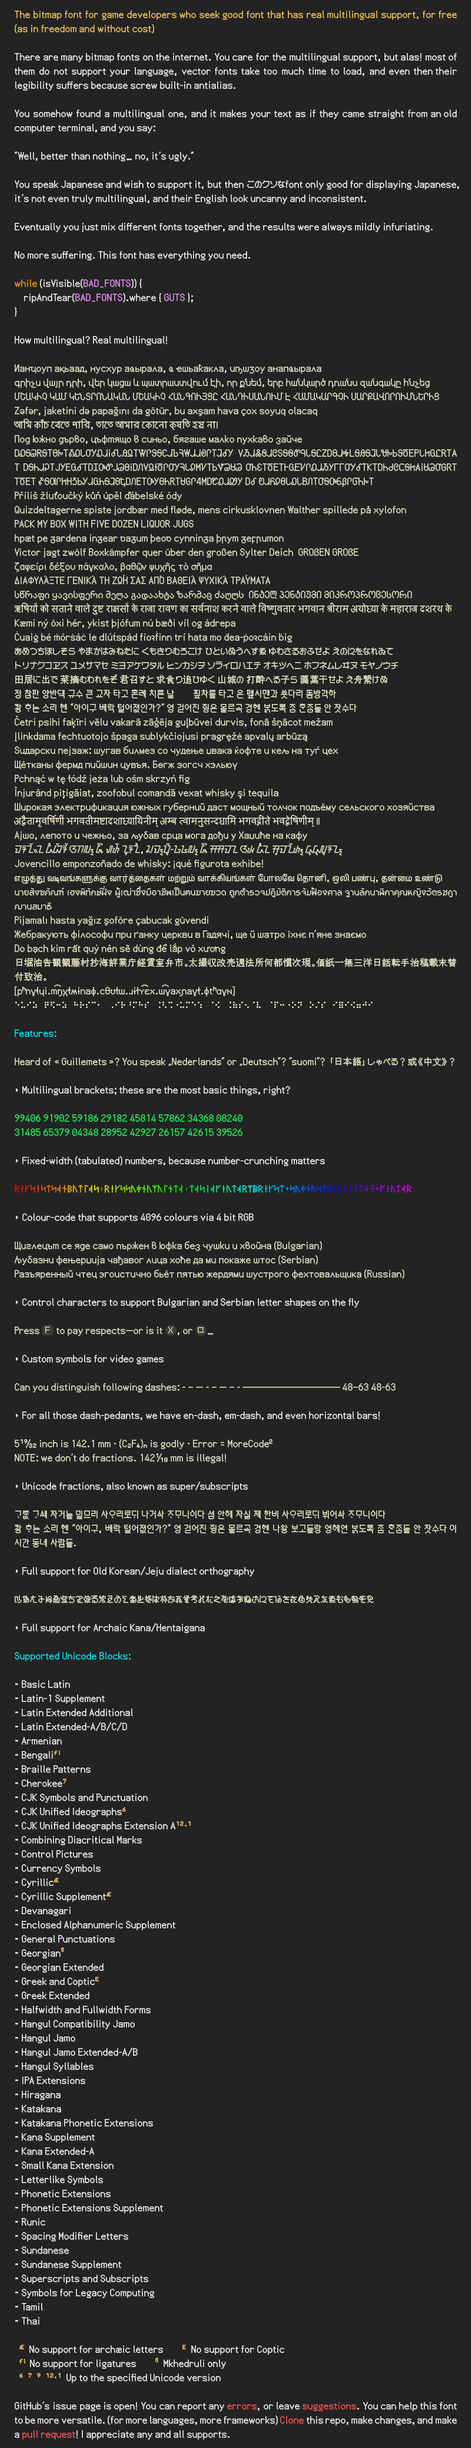
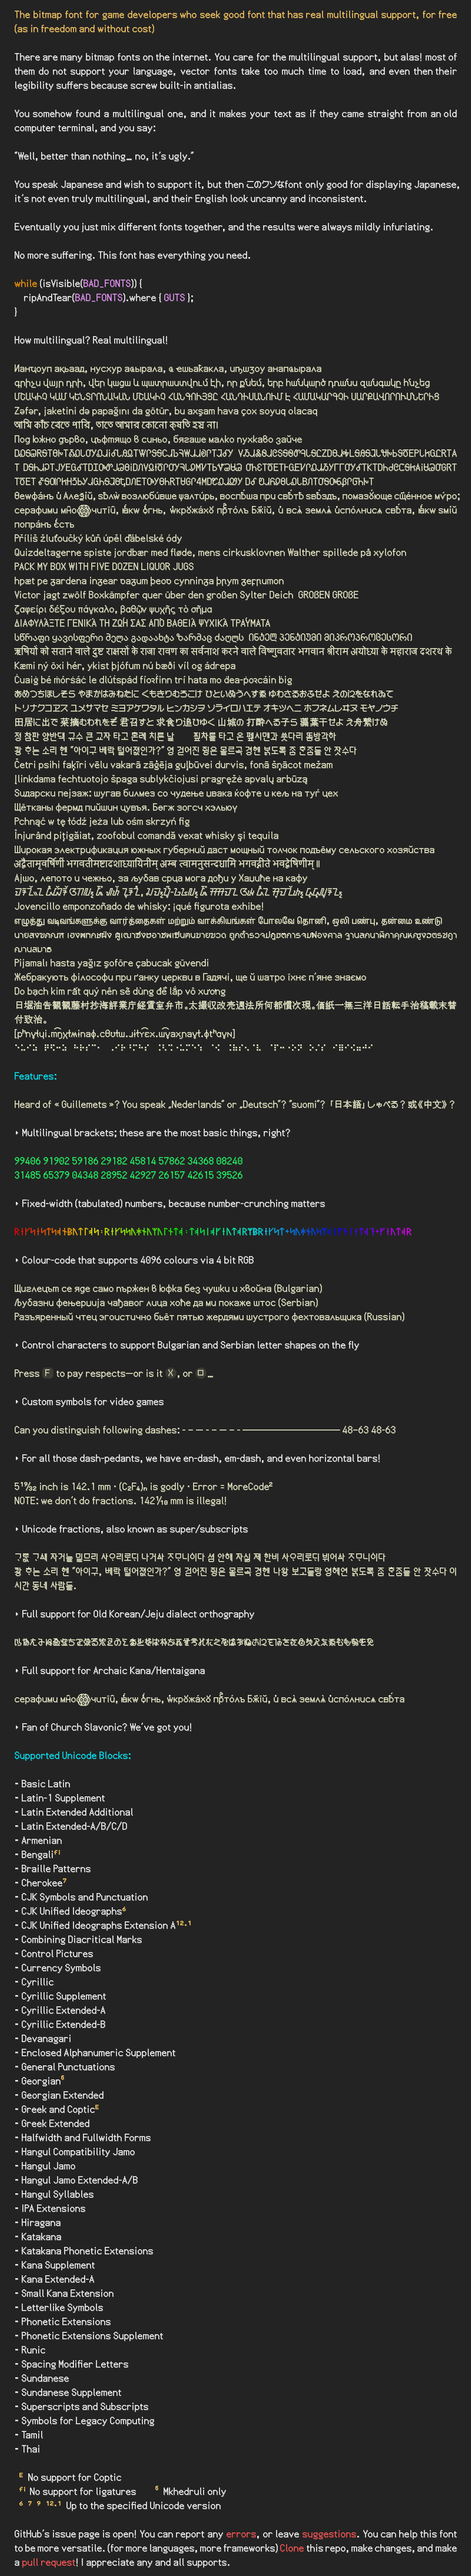
Full Cyrillic, CyrlExtA/B support (enables church slavonic)

diff --git a/src/net/torvald/terrarumsansbitmap/gdx/TerrarumSansBitmap.kt b/src/net/torvald/terrarumsansbitmap/gdx/TerrarumSansBitmap.kt
@@ -888,6 +888,8 @@ class TerrarumSansBitmap(
             SHEET_HENTAIGANA_VARW -> hentaiganaIndexY(ch)
             SHEET_CONTROL_PICTURES_VARW -> controlPicturesIndexY(ch)
             SHEET_LEGACY_COMPUTING_VARW -> legacyComputingIndexY(ch)
+            SHEET_CYRILIC_EXTB_VARW -> cyrilicExtBIndexY(ch)
+            SHEET_CYRILIC_EXTA_VARW -> cyrilicExtAIndexY(ch)
             else -> ch / 16
         }
 
@@ -1120,6 +1122,8 @@ class TerrarumSansBitmap(
         var nonDiacriticCounter = 0 // index of last instance of non-diacritic char
         var stackUpwardCounter = 0 // TODO separate stack counter for centre- and right aligned
         var stackDownwardCounter = 0
+        var nudgeUpwardCounter = 0
+        var nudgeDownwardCounter = 0
 
         val HALF_VAR_INIT = W_VAR_INIT.minus(1).div(2)
 
@@ -1198,6 +1202,8 @@ class TerrarumSansBitmap(
 
                         stackUpwardCounter = 0
                         stackDownwardCounter = 0
+                        nudgeUpwardCounter = 0
+                        nudgeDownwardCounter = 0
                     }
                     // FIXME HACK: using 0th diacritics' X-anchor pos as a type selector
                     /*else if (thisProp.writeOnTop && thisProp.diacriticsAnchors[0].x == GlyphProps.DIA_JOINER) {
@@ -1277,14 +1283,14 @@ class TerrarumSansBitmap(
                         // set Y pos according to diacritics position
                         when (thisProp.stackWhere) {
                             GlyphProps.STACK_DOWN -> {
-                                posYbuffer[charIndex] = (-thisProp.nudgeY + H_DIACRITICS * stackDownwardCounter) * flipY.toSign()
+                                posYbuffer[charIndex] = (-thisProp.nudgeY + H_DIACRITICS * stackDownwardCounter) * flipY.toSign() - thisProp.nudgeY - nudgeDownwardCounter
                                 stackDownwardCounter++
+                                nudgeDownwardCounter -= thisProp.nudgeY
                             }
                             GlyphProps.STACK_UP -> {
-                                posYbuffer[charIndex] = -thisProp.nudgeY + (-H_DIACRITICS * stackUpwardCounter + -thisProp.nudgeY) * flipY.toSign()
+                                posYbuffer[charIndex] = -thisProp.nudgeY + (-H_DIACRITICS * stackUpwardCounter + -thisProp.nudgeY) * flipY.toSign() + thisProp.nudgeY + nudgeUpwardCounter
                                 // shift down on lowercase if applicable
-                                if (getSheetType(thisChar) in autoShiftDownOnLowercase &&
-                                    lastNonDiacriticChar.isLowHeight()) {
+                                if (lastNonDiacriticChar.isLowHeight()) {
                                     //dbgprn("AAARRRRHHHH for character ${thisChar.toHex()}")
                                     //dbgprn("lastNonDiacriticChar: ${lastNonDiacriticChar.toHex()}")
                                     //dbgprn("cond: ${thisProp.alignXPos == GlyphProps.DIA_OVERLAY}, charIndex: $charIndex")
@@ -1295,18 +1301,19 @@ class TerrarumSansBitmap(
                                 }
 
                                 stackUpwardCounter++
+                                nudgeUpwardCounter += thisProp.nudgeY
 
 //                                    dbgprn("lastNonDiacriticChar: ${lastNonDiacriticChar.charInfo()}; stack counter: $stackUpwardCounter")
                             }
                             GlyphProps.STACK_UP_N_DOWN -> {
                                 posYbuffer[charIndex] = (-thisProp.nudgeY + H_DIACRITICS * stackDownwardCounter) * flipY.toSign()
                                 stackDownwardCounter++
-
+                                if (thisProp.nudgeY < 0)
+                                    nudgeDownwardCounter -= thisProp.nudgeY
 
                                 posYbuffer[charIndex] = (-thisProp.nudgeY + -H_DIACRITICS * stackUpwardCounter) * flipY.toSign()
                                 // shift down on lowercase if applicable
-                                if (getSheetType(thisChar) in autoShiftDownOnLowercase &&
-                                    lastNonDiacriticChar.isLowHeight()) {
+                                if (lastNonDiacriticChar.isLowHeight()) {
                                     if (diacriticsType == GlyphProps.DIA_OVERLAY)
                                         posYbuffer[charIndex] += H_OVERLAY_LOWERCASE_SHIFTDOWN * flipY.toSign() // if minus-assign doesn't work, try plus-assign
                                     else
@@ -1314,6 +1321,8 @@ class TerrarumSansBitmap(
                                 }
 
                                 stackUpwardCounter++
+                                if (thisProp.nudgeY > 0)
+                                    nudgeUpwardCounter += thisProp.nudgeY
                             }
                             // for BEFORE_N_AFTER, do nothing in here
                         }
@@ -2604,6 +2613,8 @@ class TerrarumSansBitmap(
         internal const val SHEET_HENTAIGANA_VARW = 39
         internal const val SHEET_CONTROL_PICTURES_VARW = 40
         internal const val SHEET_LEGACY_COMPUTING_VARW = 41
+        internal const val SHEET_CYRILIC_EXTB_VARW = 42
+        internal const val SHEET_CYRILIC_EXTA_VARW = 43
 
         internal const val SHEET_UNKNOWN = 254
 
@@ -2624,10 +2635,6 @@ class TerrarumSansBitmap(
         const val MOVABLE_BLOCK_M1 = 0xFFFE0
         const val MOVABLE_BLOCK_1 = 0xFFFF0
 
-
-        private val autoShiftDownOnLowercase = arrayOf(
-            SHEET_DIACRITICAL_MARKS_VARW
-        )
 
         private val fileList = arrayOf( // MUST BE MATCHING WITH SHEET INDICES!!
             "ascii_variable.tga",
@@ -2672,6 +2679,8 @@ class TerrarumSansBitmap(
             "hentaigana_variable.tga",
             "control_pictures_variable.tga",
             "symbols_for_legacy_computing_variable.tga",
+            "cyrilic_extB_variable.tga",
+            "cyrilic_extA_variable.tga",
         )
         internal val codeRange = arrayOf( // MUST BE MATCHING WITH SHEET INDICES!!
             0..0xFF, // SHEET_ASCII_VARW
@@ -2716,6 +2725,8 @@ class TerrarumSansBitmap(
             0x1B000..0x1B16F, // SHEET_HENTAIGANA_VARW
             0x2400..0x243F, // SHEET_CONTROL_PICTURES_VARW
             0x1FB00..0x1FBFF, // SHEET_LEGACY_COMPUTING_VARW
+            0xA640..0xA69F, // SHEET_CYRILIC_EXTB_VARW
+            0x2DE0..0x2DFF, // SHEET_CYRILIC_EXTA_VARW
         )
         private val codeRangeHangulCompat = 0x3130..0x318F
 
@@ -3066,6 +3077,8 @@ class TerrarumSansBitmap(
         private fun hentaiganaIndexY(c: CodePoint) = (c - 0x1B000) / 16
         private fun controlPicturesIndexY(c: CodePoint) = (c - 0x2400) / 16
         private fun legacyComputingIndexY(c: CodePoint) = (c - 0x1FB00) / 16
+        private fun cyrilicExtBIndexY(c: CodePoint) = (c - 0xA640) / 16
+        private fun cyrilicExtAIndexY(c: CodePoint) = (c - 0x2DE0) / 16
 
         val charsetOverrideDefault = Character.toChars(CHARSET_OVERRIDE_DEFAULT).toSurrogatedString()
         val charsetOverrideBulgarian = Character.toChars(CHARSET_OVERRIDE_BG_BG).toSurrogatedString()

diff --git a/OTFbuild/sheet_config.py b/OTFbuild/sheet_config.py
@@ -72,6 +72,8 @@ SHEET_ALPHABETIC_PRESENTATION_FORMS = 38
 SHEET_HENTAIGANA_VARW = 39
 SHEET_CONTROL_PICTURES_VARW = 40
 SHEET_LEGACY_COMPUTING_VARW = 41
+SHEET_CYRILIC_EXTB_VARW = 42
+SHEET_CYRILIC_EXTA_VARW = 43
 
 SHEET_UNKNOWN = 254
 
@@ -118,6 +120,8 @@ FILE_LIST = [
     "hentaigana_variable.tga",
     "control_pictures_variable.tga",
     "symbols_for_legacy_computing_variable.tga",
+    "cyrilic_extB_variable.tga",
+    "cyrilic_extA_variable.tga",
 ]
 
 CODE_RANGE = [
@@ -163,6 +167,8 @@ CODE_RANGE = [
     list(range(0x1B000, 0x1B170)),                                                  # 39: Hentaigana
     list(range(0x2400, 0x2440)),                                                    # 40: Control Pictures
     list(range(0x1FB00, 0x1FC00)),                                                  # 41: Legacy Computing
+    list(range(0xA640, 0xA6A0)),                                                    # 42: Cyrillic Ext B
+    list(range(0x2DE0, 0x2E00)),                                                    # 43: Cyrillic Ext A
 ]
 
 CODE_RANGE_HANGUL_COMPAT = range(0x3130, 0x3190)
@@ -539,5 +545,7 @@ def index_y(sheet_index, c):
         SHEET_HENTAIGANA_VARW: lambda: (c - 0x1B000) // 16,
         SHEET_CONTROL_PICTURES_VARW: lambda: (c - 0x2400) // 16,
         SHEET_LEGACY_COMPUTING_VARW: lambda: (c - 0x1FB00) // 16,
+        SHEET_CYRILIC_EXTB_VARW: lambda: (c - 0xA640) // 16,
+        SHEET_CYRILIC_EXTA_VARW: lambda: (c - 0x2DE0) // 16,
         SHEET_HANGUL: lambda: 0,
     }.get(sheet_index, lambda: c // 16)()

diff --git a/OTFbuild/opentype_features.py b/OTFbuild/opentype_features.py
@@ -1750,7 +1750,7 @@ def _generate_mark(glyphs, has):
 
     mark_groups = {}  # (mark_type, align, is_dia, stack_cat) -> [(cp, g), ...]
     for cp, g in marks.items():
-        is_dia = (0x0300 <= cp <= 0x036F)
+        is_dia = True  # all marks (write_on_top >= 0) are diacritics; Kotlin applies lowheight shiftdown unconditionally
         sc = _stack_cat(g.props.stack_where)
         key = (g.props.write_on_top, g.props.align_where, is_dia, sc)
         mark_groups.setdefault(key, []).append((cp, g))

diff --git a/CONTRIBUTING.md b/CONTRIBUTING.md
@@ -80,7 +80,7 @@ Up&Down:
 Each X and Y numbers are Signed 8-Bit Integer.
 
 X-positive: nudges towards left  
-Y-positive: nudges towards up  
+Y-positive: nudges towards down  
 
 #### Diacritics Anchor Point Encoding
 
